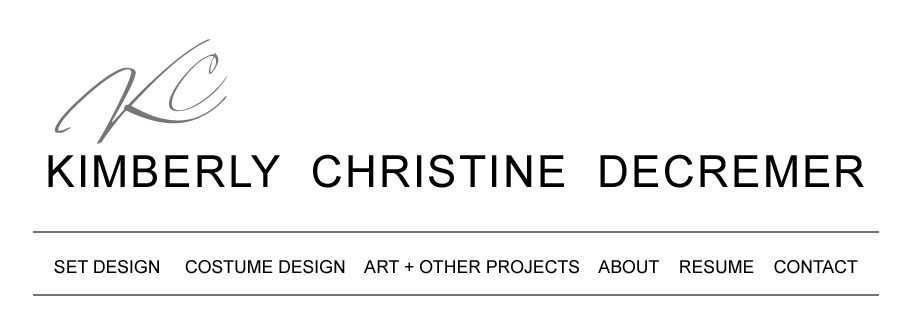
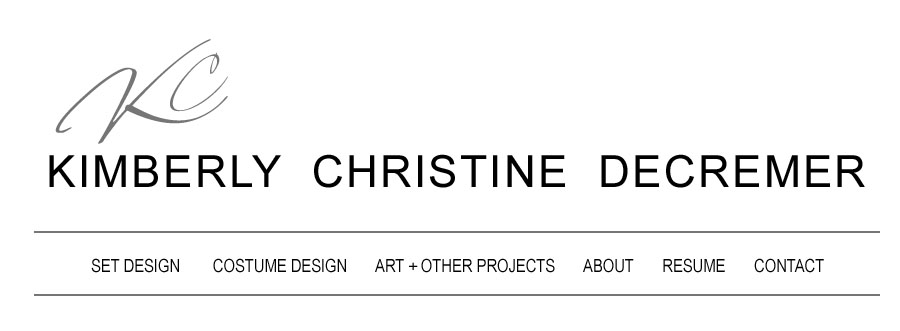
Add files via upload

diff --git a/index.html b/index.html
@@ -9,14 +9,14 @@
 <table width="900" border="0" align="center">
   <tbody>
     <tr>
-      <td><img src="header.jpg" width="899" height="331" alt=""/></td>
+      <td><img src="header.jpg" alt="" width="899" height="331" usemap="#Map"/></td>
     </tr>
   </tbody>
 </table>
 <table width="900" border="0" align="center">
   <tbody>
     <tr>
-      <td align="center" style="font-size: 48px">Set Design</td>
+      <td align="center" style="font-size: 43px">Set Design</td>
     </tr>
   </tbody>
 </table>
@@ -40,5 +40,15 @@
     </tr>
   </tbody>
 </table>
+
+<map name="Map">
+  <area shape="rect" coords="88,253,181,277" href="#">
+  <area shape="rect" coords="210,253,348,278" href="#">
+  <area shape="rect" coords="364,253,558,280" href="#">
+  <area shape="rect" coords="574,252,647,280" href="#">
+  <area shape="rect" coords="655,250,740,281" href="#">
+  <area shape="rect" coords="745,250,838,280" href="#">
+  <area shape="rect" coords="35,38,879,209" href="#">
+</map>
 </body>
 </html>
